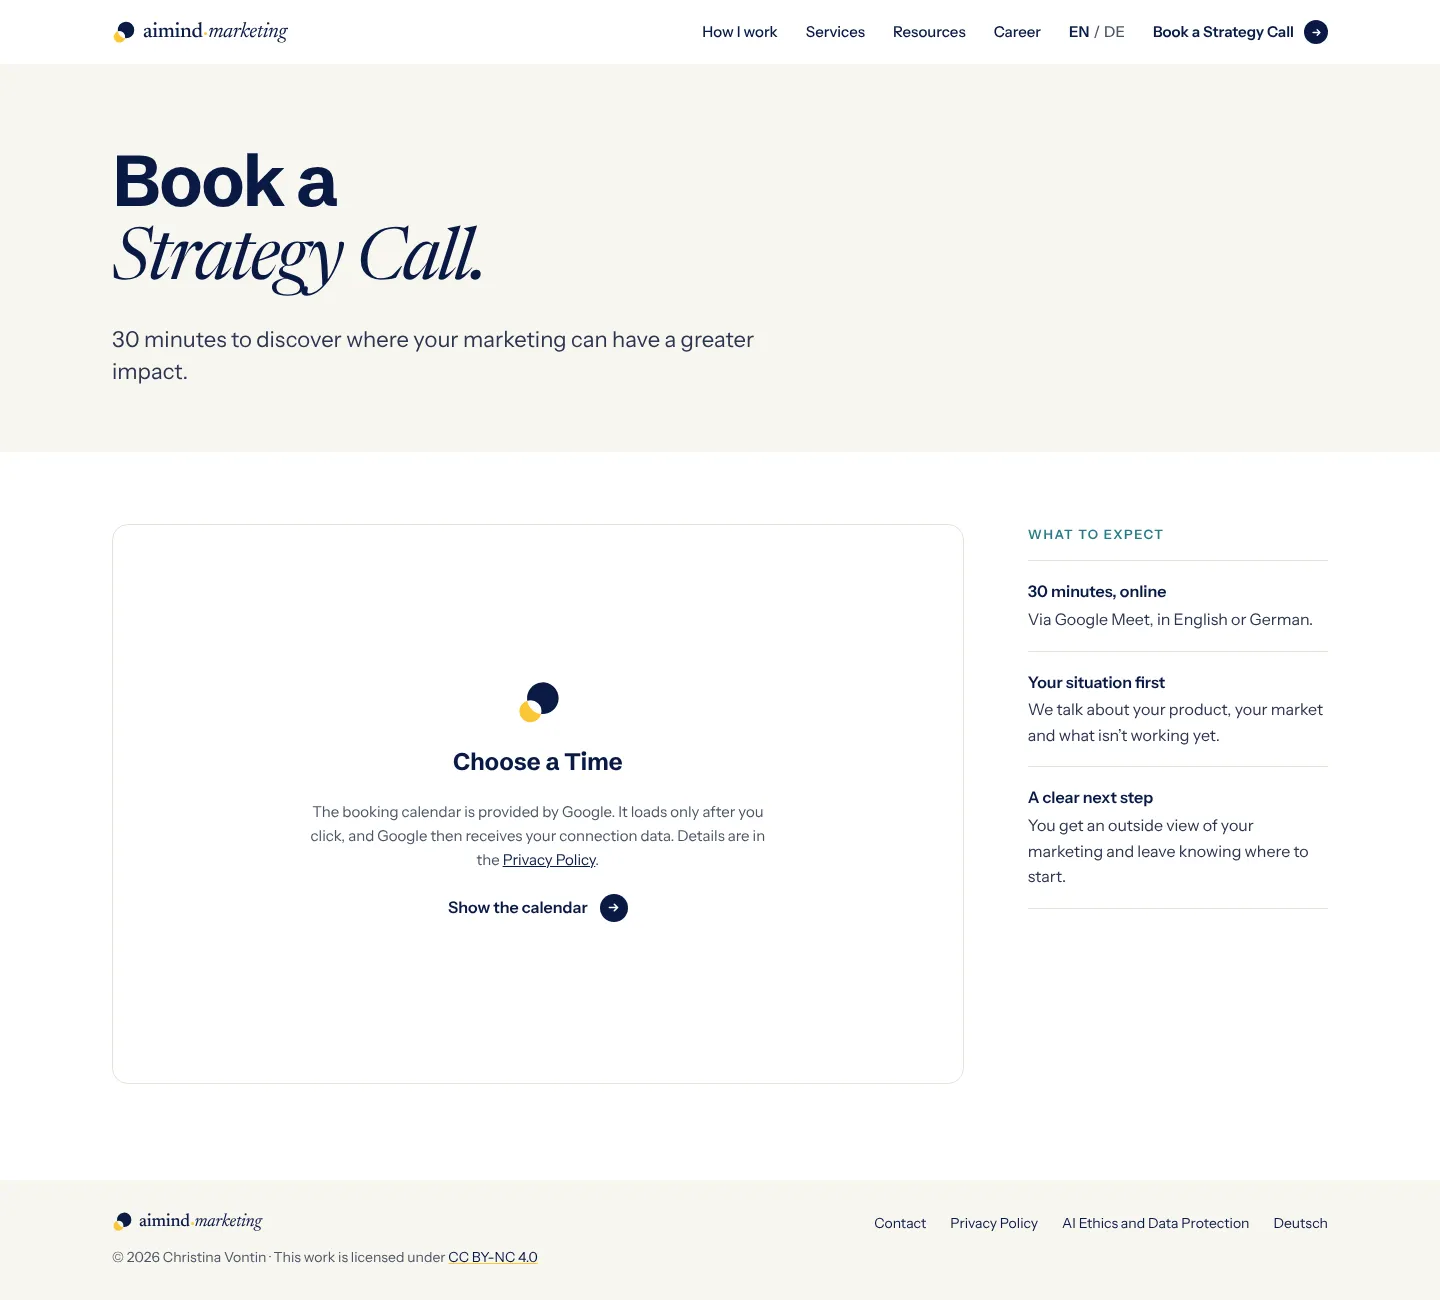
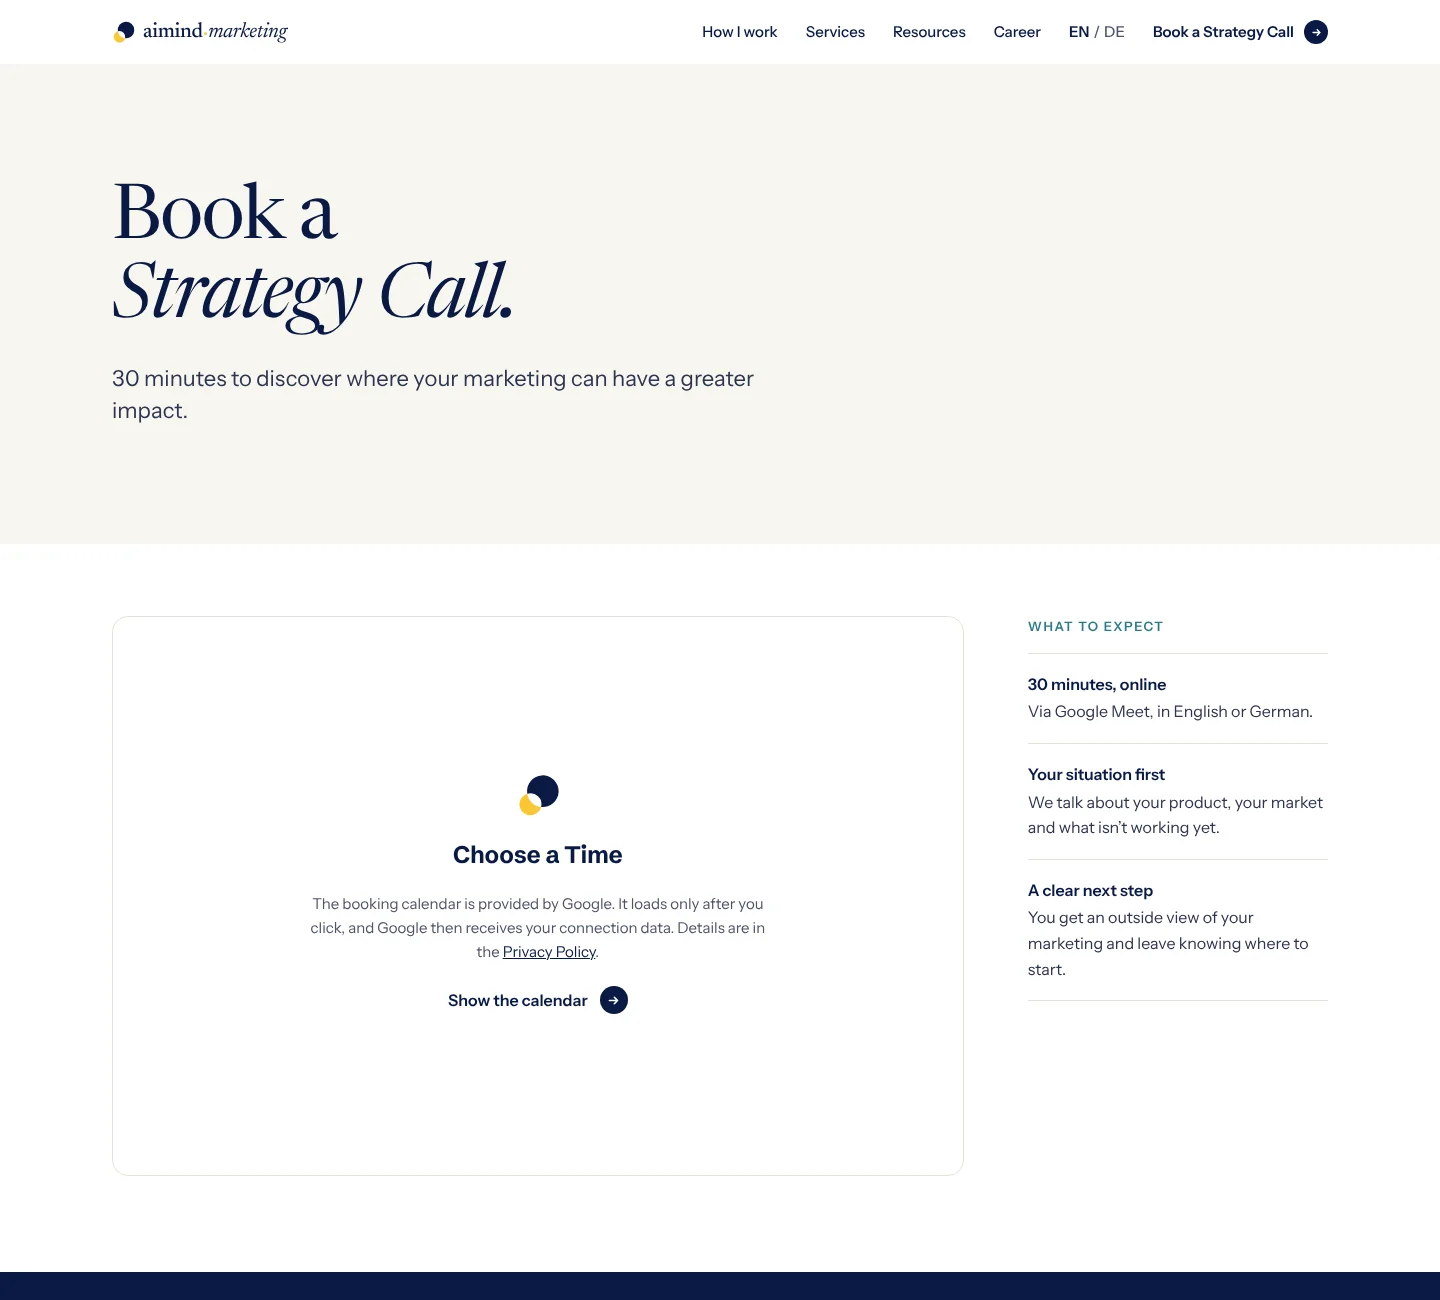
One page header for all non-article pages: 480px, Newsreader, aligned with the content column; page text aligned to the same edge
Contact, privacy policy, AI ethics, author page and 404 (EN/DE).

Claude-Session: https://claude.ai/code/session_01GgTZBxZbdB6YHTVZLQxjP4

diff --git a/src/styles/global.css b/src/styles/global.css
@@ -247,8 +247,11 @@ h1 .hl > span { display: inline-block; position: relative; padding-right: .12em;
 
 /* Contact page */
 .page-hero { background: var(--offwhite); }
-.page-hero .wrap { padding-top: 80px; padding-bottom: 64px; }
-.page-hero h1 { margin: 0; font-family: var(--font-head); font-weight: 700; font-size: clamp(42px, 5.5vw, 72px); line-height: 1.02; letter-spacing: -0.035em; }
+/* One header for every page that is not an article (contact, privacy policy, AI ethics, author page, 404): same height, same
+   headline style, aligned with the content column like the homepage. */
+.page-hero .wrap { padding-top: 88px; padding-bottom: 88px; display: flex; flex-direction: column; justify-content: center; }
+@media (min-width: 1280px) { .page-hero .wrap { min-height: 480px; } }
+.page-hero h1 { margin: 0; font-family: var(--font-serif); font-weight: 400; font-size: clamp(34px, calc(6vw + 14px), 76px); line-height: 1.04; letter-spacing: -0.025em; text-wrap: balance; }
 .page-hero .lead { margin: 24px 0 0; max-width: 46ch; font-size: clamp(19px, 2vw, 22px); line-height: 1.45; color: var(--body); }
 .contact-grid { display: flex; flex-wrap: wrap; gap: 48px 64px; align-items: flex-start; }
 .contact-grid > div { flex: 999 1 560px; min-width: 0; }
@@ -278,7 +281,7 @@ h1 .hl > span { display: inline-block; position: relative; padding-right: .12em;
 .a-meta a { color: var(--navy); font-weight: 600; text-decoration: underline; text-decoration-color: var(--yellow); text-decoration-thickness: 2px; text-underline-offset: .2em; }
 .a-meta a:hover { text-decoration-color: var(--navy); }
 .a-body { max-width: var(--wide); margin: 0 auto; padding: 72px 32px; display: flex; flex-wrap: wrap; gap: 64px; align-items: flex-start; }
-.a-body.page-body { max-width: 1040px; }
+.a-body.page-body { max-width: var(--wide); }
 .toc { flex: 1 1 220px; max-width: 260px; position: sticky; top: 96px; }
 .toc p { margin: 0 0 16px; font-size: 13px; font-weight: 600; letter-spacing: .14em; text-transform: uppercase; color: var(--slate); }
 .toc ol { margin: 0; padding: 0; list-style: none; font-size: 15px; line-height: 1.4; display: flex; flex-direction: column; gap: 14px; border-left: 1px solid var(--line-strong); }
